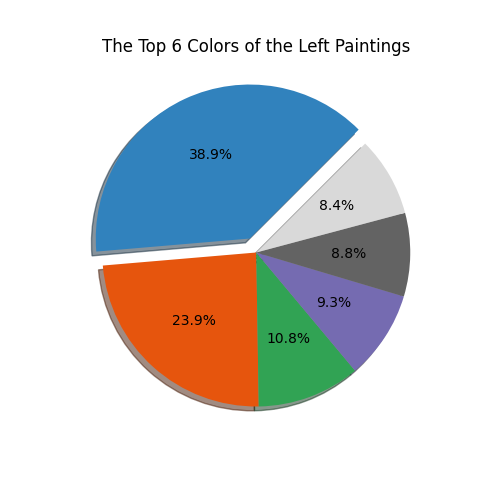
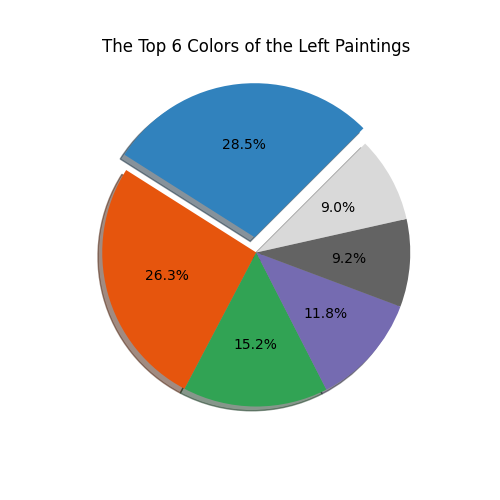
change ui layout

diff --git a/main.py b/main.py
@@ -72,6 +72,8 @@ class MyWindow(QMainWindow, Ui_MainWindow):
         layout.addWidget(self.webview)
         layout.setContentsMargins(0, 0, 0, 0)
 
+        self.myColorLayout = None
+
         # layout = QVBoxLayout()
         #
         # # Create a NetworkX graph
@@ -185,6 +187,8 @@ class MyWindow(QMainWindow, Ui_MainWindow):
 
         last_clicked_label = label
         self.showImageText()
+        print("show text")
+        self.drawPieChart()
 
     def handlUserInput(self):
         input_text = self.searchEdit.text()
@@ -264,6 +268,56 @@ class MyWindow(QMainWindow, Ui_MainWindow):
         font.setPointSize(14)  # Set the desired font size
         self.textBrowser.setFont(font)
 
+    def drawPieChart(self):
+        self.removeColorGraph()
+
+        # Extract main colors from the image
+        colors, counts = get_main_colors(currentImagePath)
+        # Normalize
+        proportions = counts / counts.sum()
+        fig = Figure(figsize=(5, 5))
+        if self.myColorLayout is None:
+            layout = QVBoxLayout(self.frame_2)
+            self.myColorLayout = layout
+
+        sorted_indices = np.argsort(-proportions)
+        sorted_colors = colors[sorted_indices]
+        sorted_proportions = proportions[sorted_indices]
+
+        # Select the top 5 colors
+        top_colors = sorted_colors[:6]
+        top_proportions = sorted_proportions[:6]
+        cmap = plt.cm.get_cmap("tab20c", len(top_colors))
+
+        ax = fig.add_subplot(111)
+        explode_index = np.argmax(top_proportions)
+
+        # Create an explode array with zeros for all slices except the one with the highest proportion
+        explode = np.zeros(len(top_proportions))
+        explode[explode_index] = 0.1
+        ax.pie(top_proportions, explode=explode, autopct='%1.1f%%', colors=cmap(np.arange(len(top_colors))),
+               shadow=True, startangle=45)
+        ax.set_title("The Top 6 Colors of the Left Paintings")
+        fig.savefig("./color.png")
+        # if self.frame_2.layout() is None:
+        # layout = QVBoxLayout(self.frame_2)
+        print(self.frame_2 is None)
+        # Remove previous widgets from the layout
+        # for i in reversed(range(self.frame_2.layout().count())):
+
+        canvas = FigureCanvas(fig)
+        # widget = self.frame_2.layout().itemAt(0).widget()
+        # if widget is not None:
+        #     widget.deleteLater()
+
+        self.myColorLayout.addWidget(canvas)
+
+    def removeColorGraph(self):
+        if self.myColorLayout is not None:
+            widget = self.myColorLayout.itemAt(0).widget()
+            if widget is not None:
+                widget.deleteLater()
+
 
 class DataWindow(QMainWindow, Data_MainWindow):
     def __init__(self):
@@ -281,75 +335,75 @@ class DataWindow(QMainWindow, Data_MainWindow):
         layout.addWidget(self.webview)
         layout.setContentsMargins(1, 1, 1, 1)
 
-    def loadImage(self):
-        global currentImagePath
+    # def loadImage(self):
+    #     global currentImagePath
+    #
+    #     if self.myLayout is None:
+    #         layout = QHBoxLayout(self.frame)
+    #         self.myLayout = layout
+    #
+    #     image_label = QLabel()
+    #     image_path = currentImagePath  # Replace with the actual path to your image
+    #     print(currentImagePath)
+    #     pixmap = QPixmap(image_path)
+    #     image_label.setPixmap(pixmap.scaled(image_label.size(), Qt.AspectRatioMode.KeepAspectRatio,
+    #                                         Qt.TransformationMode.SmoothTransformation))
+    #     # Enable scaling of the image within the QLabel
+    #     image_label.setScaledContents(True)
+    #
+    #     self.myLayout.addWidget(image_label)
+    #     self.myImageLabel = image_label
+    #     print(self.myLayout.count())
 
-        if self.myLayout is None:
-            layout = QHBoxLayout(self.frame)
-            self.myLayout = layout
+    # def removeImage(self):
+    #     self.frame.layout().removeWidget(self.myImageLabel)
+    #     widget = self.myColorLayout.itemAt(0).widget()
+    #     if widget is not None:
+    #         widget.deleteLater()
 
-        image_label = QLabel()
-        image_path = currentImagePath  # Replace with the actual path to your image
-        print(currentImagePath)
-        pixmap = QPixmap(image_path)
-        image_label.setPixmap(pixmap.scaled(image_label.size(), Qt.AspectRatioMode.KeepAspectRatio,
-                                            Qt.TransformationMode.SmoothTransformation))
-        # Enable scaling of the image within the QLabel
-        image_label.setScaledContents(True)
-
-        self.myLayout.addWidget(image_label)
-        self.myImageLabel = image_label
-        print(self.myLayout.count())
-
-    def removeImage(self):
-        self.frame.layout().removeWidget(self.myImageLabel)
-        widget = self.myColorLayout.itemAt(0).widget()
-        if widget is not None:
-            widget.deleteLater()
-
-    def drawPieChart(self):
-        # Extract main colors from the image
-        colors, counts = get_main_colors(currentImagePath)
-        # Normalize
-        proportions = counts / counts.sum()
-        fig = Figure(figsize=(5, 5))
-        if self.myColorLayout is None:
-            layout = QVBoxLayout(self.frame_2)
-            self.myColorLayout = layout
-        
-        sorted_indices = np.argsort(-proportions)
-        sorted_colors = colors[sorted_indices]
-        sorted_proportions = proportions[sorted_indices]
-        
-        # Select the top 5 colors
-        top_colors = sorted_colors[:6]
-        top_proportions = sorted_proportions[:6]
-        cmap = plt.cm.get_cmap("tab20c", len(top_colors))
-        
-        ax = fig.add_subplot(111)
-        explode_index = np.argmax(top_proportions)
-
-    # Create an explode array with zeros for all slices except the one with the highest proportion
-        explode = np.zeros(len(top_proportions))
-        explode[explode_index] = 0.1
-        ax.pie(top_proportions, explode= explode, autopct='%1.1f%%', colors=cmap(np.arange(len(top_colors))), shadow=True,startangle=45)
-        ax.set_title("The Top 6 Colors of the Left Paintings")
-        fig.savefig("./color.png")
-        # if self.frame_2.layout() is None:
-        # layout = QVBoxLayout(self.frame_2)
-        print(self.frame_2 is None)
-        # Remove previous widgets from the layout
-        # for i in reversed(range(self.frame_2.layout().count())):
-        
-        
-        
-        
-        canvas = FigureCanvas(fig)
-        # widget = self.frame_2.layout().itemAt(0).widget()
-        # if widget is not None:
-        #     widget.deleteLater()
-
-        self.myColorLayout.addWidget(canvas)
+    # def drawPieChart(self):
+    #     # Extract main colors from the image
+    #     colors, counts = get_main_colors(currentImagePath)
+    #     # Normalize
+    #     proportions = counts / counts.sum()
+    #     fig = Figure(figsize=(5, 5))
+    #     if self.myColorLayout is None:
+    #         layout = QVBoxLayout(self.frame_2)
+    #         self.myColorLayout = layout
+    #
+    #     sorted_indices = np.argsort(-proportions)
+    #     sorted_colors = colors[sorted_indices]
+    #     sorted_proportions = proportions[sorted_indices]
+    #
+    #     # Select the top 5 colors
+    #     top_colors = sorted_colors[:6]
+    #     top_proportions = sorted_proportions[:6]
+    #     cmap = plt.cm.get_cmap("tab20c", len(top_colors))
+    #
+    #     ax = fig.add_subplot(111)
+    #     explode_index = np.argmax(top_proportions)
+    #
+    # # Create an explode array with zeros for all slices except the one with the highest proportion
+    #     explode = np.zeros(len(top_proportions))
+    #     explode[explode_index] = 0.1
+    #     ax.pie(top_proportions, explode= explode, autopct='%1.1f%%', colors=cmap(np.arange(len(top_colors))), shadow=True,startangle=45)
+    #     ax.set_title("The Top 6 Colors of the Left Paintings")
+    #     fig.savefig("./color.png")
+    #     # if self.frame_2.layout() is None:
+    #     # layout = QVBoxLayout(self.frame_2)
+    #     print(self.frame_2 is None)
+    #     # Remove previous widgets from the layout
+    #     # for i in reversed(range(self.frame_2.layout().count())):
+    #
+    #
+    #
+    #
+    #     canvas = FigureCanvas(fig)
+    #     # widget = self.frame_2.layout().itemAt(0).widget()
+    #     # if widget is not None:
+    #     #     widget.deleteLater()
+    #
+    #     self.myColorLayout.addWidget(canvas)
 
 
 if __name__ == '__main__':
@@ -361,8 +415,7 @@ if __name__ == '__main__':
     dataWindow = DataWindow()
 
     myWindow.pushButton_2.clicked.connect(
-        lambda: {myWindow.close(), dataWindow.show(),
-                 dataWindow.loadImage(), dataWindow.drawPieChart(), dataWindow.show()}
+        lambda: {myWindow.close(),  dataWindow.show()}
     )
 
     myWindow.searchButton.clicked.connect(
@@ -370,7 +423,7 @@ if __name__ == '__main__':
     )
 
     dataWindow.pushButton.clicked.connect(
-        lambda: {dataWindow.removeImage(), dataWindow.close(), myWindow.show()}
+        lambda: {dataWindow.close(), myWindow.show()}
     )
     extra = {
 

diff --git a/data_interface.py b/data_interface.py
@@ -12,47 +12,32 @@ from PyQt6 import QtCore, QtGui, QtWidgets
 class Ui_MainWindow(object):
     def setupUi(self, MainWindow):
         MainWindow.setObjectName("MainWindow")
-        MainWindow.resize(1208, 643)
+        MainWindow.resize(1208, 647)
         self.centralwidget = QtWidgets.QWidget(parent=MainWindow)
         self.centralwidget.setObjectName("centralwidget")
         self.tabWidget = QtWidgets.QTabWidget(parent=self.centralwidget)
         self.tabWidget.setGeometry(QtCore.QRect(-4, -1, 1211, 651))
         self.tabWidget.setObjectName("tabWidget")
-        self.tab = QtWidgets.QWidget()
-        self.tab.setObjectName("tab")
-        self.frame = QtWidgets.QFrame(parent=self.tab)
-        self.frame.setGeometry(QtCore.QRect(20, 10, 551, 561))
-        self.frame.setFrameShape(QtWidgets.QFrame.Shape.Box)
-        self.frame.setFrameShadow(QtWidgets.QFrame.Shadow.Raised)
-        self.frame.setObjectName("frame")
-        self.pushButton = QtWidgets.QPushButton(parent=self.tab)
-        self.pushButton.setGeometry(QtCore.QRect(20, 580, 75, 24))
-        self.pushButton.setObjectName("pushButton")
-        self.frame_2 = QtWidgets.QFrame(parent=self.tab)
-        self.frame_2.setGeometry(QtCore.QRect(609, 9, 581, 561))
-        self.frame_2.setFrameShape(QtWidgets.QFrame.Shape.Box)
-        self.frame_2.setFrameShadow(QtWidgets.QFrame.Shadow.Plain)
-        self.frame_2.setLineWidth(4)
-        self.frame_2.setObjectName("frame_2")
-        self.tabWidget.addTab(self.tab, "")
         self.tab_2 = QtWidgets.QWidget()
         self.tab_2.setObjectName("tab_2")
         self.frame_3 = QtWidgets.QFrame(parent=self.tab_2)
-        self.frame_3.setGeometry(QtCore.QRect(9, 9, 1191, 601))
+        self.frame_3.setGeometry(QtCore.QRect(89, 9, 1111, 601))
         self.frame_3.setFrameShape(QtWidgets.QFrame.Shape.Box)
         self.frame_3.setFrameShadow(QtWidgets.QFrame.Shadow.Plain)
         self.frame_3.setLineWidth(4)
         self.frame_3.setObjectName("frame_3")
+        self.pushButton = QtWidgets.QPushButton(parent=self.tab_2)
+        self.pushButton.setGeometry(QtCore.QRect(10, 10, 75, 24))
+        self.pushButton.setObjectName("pushButton")
         self.tabWidget.addTab(self.tab_2, "")
         MainWindow.setCentralWidget(self.centralwidget)
 
         self.retranslateUi(MainWindow)
-        self.tabWidget.setCurrentIndex(1)
+        self.tabWidget.setCurrentIndex(0)
         QtCore.QMetaObject.connectSlotsByName(MainWindow)
 
     def retranslateUi(self, MainWindow):
         _translate = QtCore.QCoreApplication.translate
         MainWindow.setWindowTitle(_translate("MainWindow", "MainWindow"))
-        self.pushButton.setText(_translate("MainWindow", "MAIN"))
-        self.tabWidget.setTabText(self.tabWidget.indexOf(self.tab), _translate("MainWindow", "COLOR"))
+        self.pushButton.setText(_translate("MainWindow", "Main"))
         self.tabWidget.setTabText(self.tabWidget.indexOf(self.tab_2), _translate("MainWindow", "UMAP"))

diff --git a/main_interface.py b/main_interface.py
@@ -19,11 +19,11 @@ class Ui_MainWindow(object):
         self.textBrowser.setGeometry(QtCore.QRect(1190, 260, 251, 331))
         self.textBrowser.setObjectName("textBrowser")
         self.scrollArea = QtWidgets.QScrollArea(parent=self.centralwidget)
-        self.scrollArea.setGeometry(QtCore.QRect(680, 10, 501, 581))
+        self.scrollArea.setGeometry(QtCore.QRect(680, 10, 501, 291))
         self.scrollArea.setWidgetResizable(True)
         self.scrollArea.setObjectName("scrollArea")
         self.scrollAreaWidgetContents = QtWidgets.QWidget()
-        self.scrollAreaWidgetContents.setGeometry(QtCore.QRect(0, 0, 499, 579))
+        self.scrollAreaWidgetContents.setGeometry(QtCore.QRect(0, 0, 499, 289))
         self.scrollAreaWidgetContents.setObjectName("scrollAreaWidgetContents")
         self.scrollArea.setWidget(self.scrollAreaWidgetContents)
         self.frame = QtWidgets.QFrame(parent=self.centralwidget)
@@ -61,6 +61,12 @@ class Ui_MainWindow(object):
         self.pushButton_2 = QtWidgets.QPushButton(parent=self.verticalLayoutWidget)
         self.pushButton_2.setObjectName("pushButton_2")
         self.verticalLayout.addWidget(self.pushButton_2)
+        self.frame_2 = QtWidgets.QFrame(parent=self.centralwidget)
+        self.frame_2.setGeometry(QtCore.QRect(679, 309, 501, 281))
+        self.frame_2.setFrameShape(QtWidgets.QFrame.Shape.Box)
+        self.frame_2.setFrameShadow(QtWidgets.QFrame.Shadow.Plain)
+        self.frame_2.setLineWidth(5)
+        self.frame_2.setObjectName("frame_2")
         MainWindow.setCentralWidget(self.centralwidget)
         self.menubar = QtWidgets.QMenuBar(parent=MainWindow)
         self.menubar.setGeometry(QtCore.QRect(0, 0, 1449, 22))
